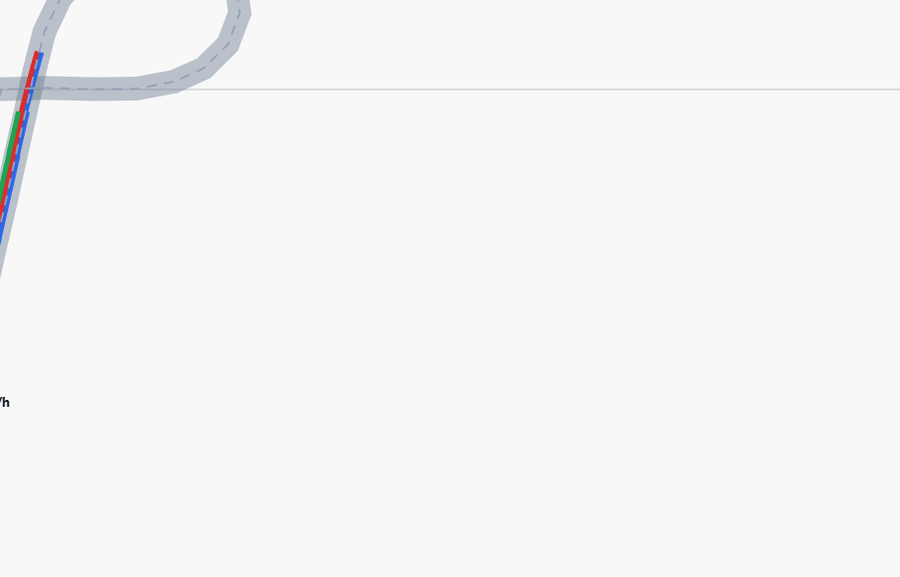
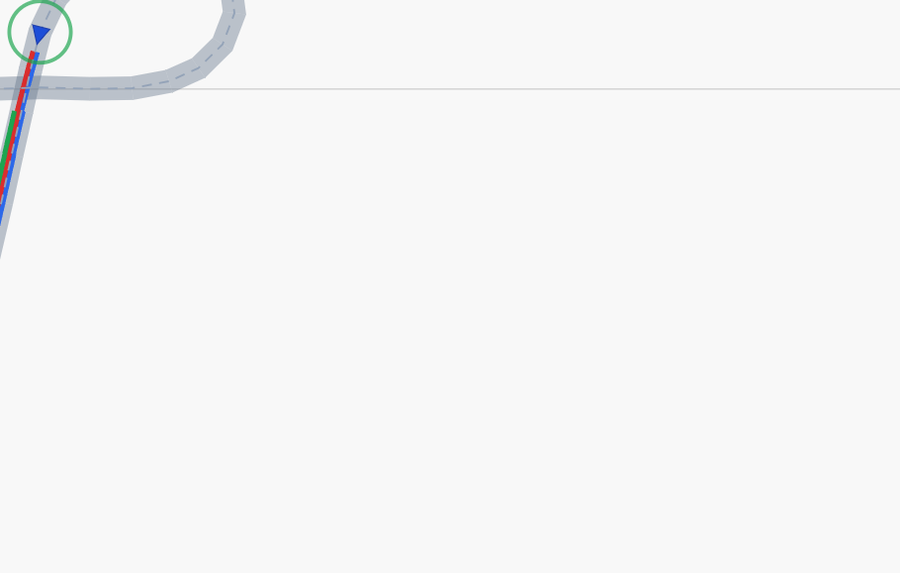
docs: use street-map hero screenshot and grey close-up
Show the working Review viewer with OSM background as the main README image; keep an accurate grey-canvas lane close-up as a separately captioned view.

Changed region(s): [[0.0, 0.0, 0.0933, 0.4747], [0.1867, 0.0, 0.28, 0.1483], [0.0, 0.6824, 0.0311, 0.712]]

diff --git a/README.md b/README.md
@@ -4,13 +4,15 @@ Review lane lines and road shape reconstructed from **vehicle driving logs** (ql
 
 **Status:** Frozen supervisor review build — no further feature development is planned in this repository. See [docs/CURRENT_VIEWER_STATUS.md](docs/CURRENT_VIEWER_STATUS.md).
 
-![Grey-canvas Review view showing estimated road surface, lane lines, and vehicle marker](docs/images/readme-app-screenshot.png)
+![Review view with OpenStreetMap street background, reconstructed road overlay, GPS route, and vehicle marker](docs/images/readme-app-screenshot.png)
 
-*Sample drive segment on the **plain grey canvas** (Review view): the **grey shaded ribbon** is the estimated road surface along the path; **solid coloured lines** are representative lane lines; the **green-ringed arrow** marks vehicle position and heading (speed label is playback metadata). Geometry is **model-estimated for human review** — not verified map data or official lane counts.*
+*Sample drive segment in **Review (simple)** with the **street map** background: **OpenStreetMap** tiles under a **salmon-tinted road-surface overlay** along the driven path, a **cyan GPS trace**, and a **blue triangle** vehicle marker. Sidebar controls show **Segment 2** loaded; geometry is **model-estimated for human review** — not verified map data or official lane counts.*
 
-![Close-up of lane lines and vehicle marker on the grey canvas](docs/images/readme-geometry-closeup.png)
+### Grey canvas (separate view)
 
-*Close-up: parallel **coloured lane lines** (blue, red, green) on the grey road-surface ribbon, with **dashed grey centre lines** inside the ribbon.*
+![Close-up of representative lane lines on the plain grey canvas](docs/images/readme-geometry-closeup.png)
+
+*Same segment on the **plain grey canvas** (no map tiles): **grey road-surface ribbon** with **dashed centre guides**, plus **coloured representative lane lines** (blue, green, red) where the review renderer draws them clearly at this zoom.*
 
 ## What is a qlog?
 
